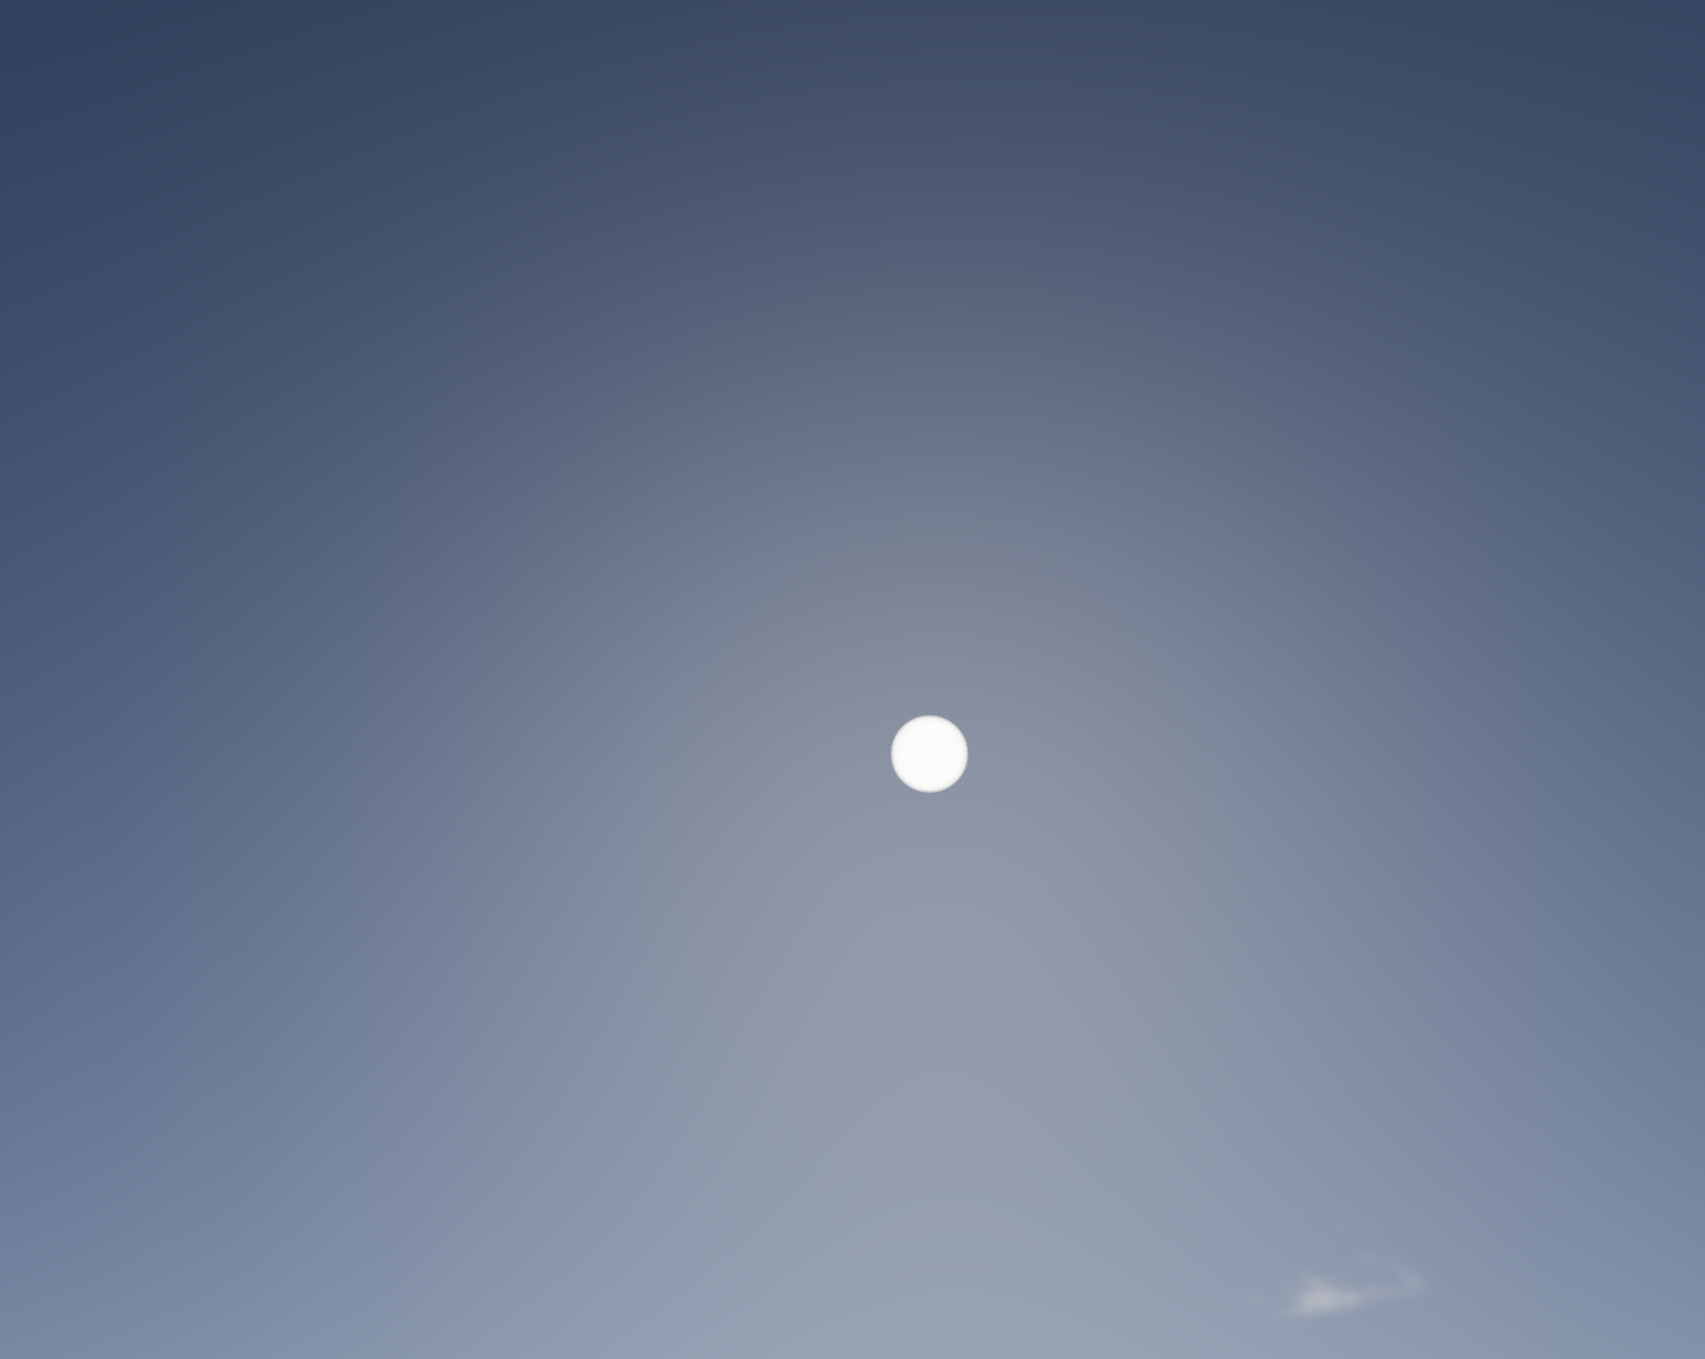
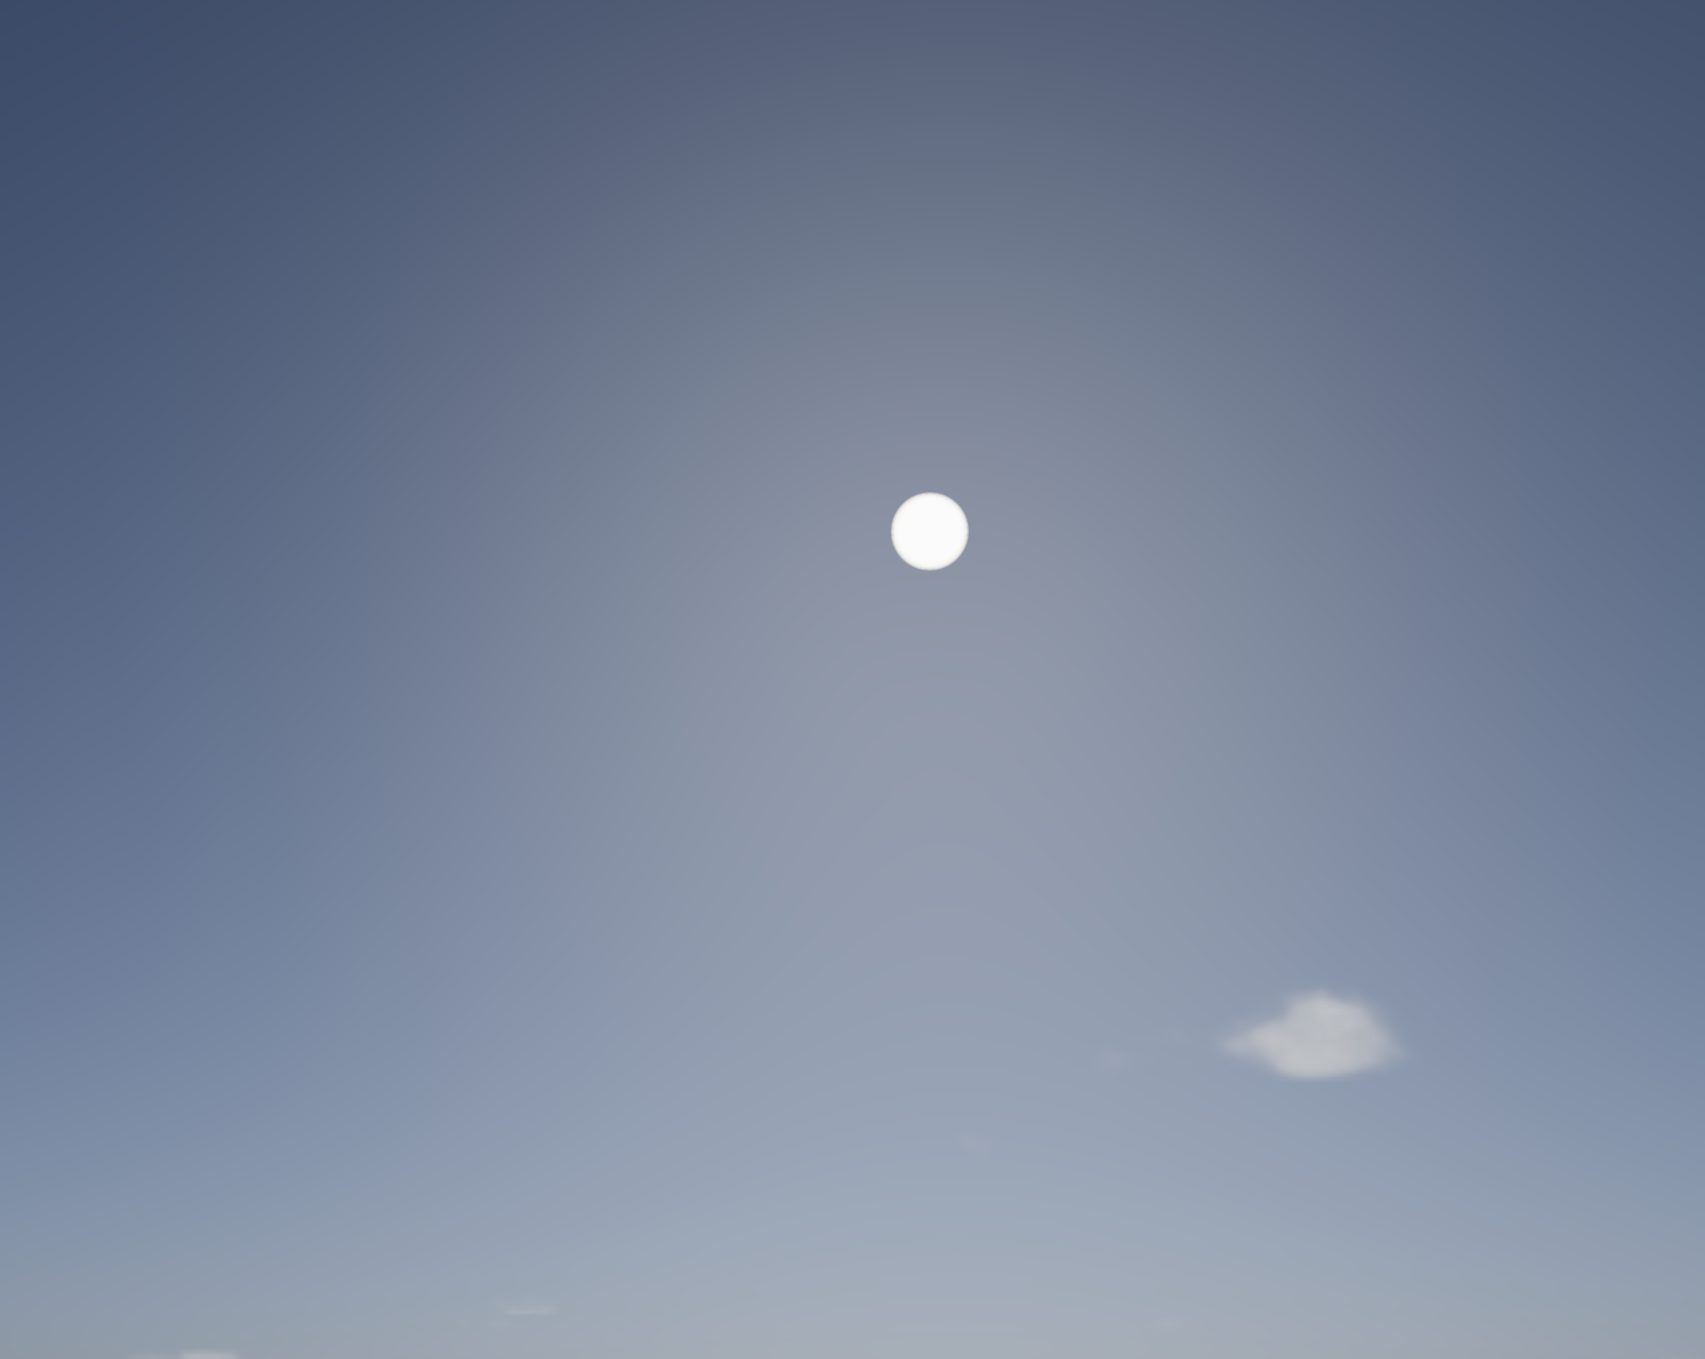
Record final camera range and integrated validation

diff --git a/assets/reviews/port-glare/README.md b/assets/reviews/port-glare/README.md
@@ -23,6 +23,6 @@ Validation: `bun test` passed all 101 tests; `bun run build` passed asset checks
 
 The follow-up camera change allows continued upward input to reveal the sun disk. Port and inspection keep the previous minimum orbit elevation (0.08 rad) for camera position, then tilt the viewing direction upward. Upward tilt is limited to 30° in every mode, reduced from the initial 1.35 rad (77°) after review. Every mode enforces a 12 m camera floor above sea level; port also retains 12 m clearance above terrain. Both the intended orbit position and the smoothed camera position are constrained, so interpolation and sinking cannot pull the camera below the floor.
 
-The [port sun](camera-port-sun.png) and [sailing sun](camera-sea-sun.png) are unedited 1705 × 1359 canvas captures from the same diagnostic in WebGPU, High quality, Atlantic sea. The paused port camera uses azimuth -2.129301687433082 rad, elevation control -0.67 rad and distance 325 m, with camera y=40.972 m. The paused sailing camera faces the sun's azimuth and elevation directly, with camera y=121.6 m. The sun disk is visible in both; no sky or sunlight parameters changed for this follow-up.
+The [port sun](camera-port-sun.png) and [sailing sun](camera-sea-sun.png) are unedited 1705 × 1359 canvas captures from the same diagnostic in WebGPU, High quality, Atlantic sea, refreshed after integrating master at `45392d0`. The paused port camera uses azimuth -2.129301687433082 rad, elevation control -π/6 rad and distance 325 m, with camera y=40.972 m. The paused sailing camera faces the sun's azimuth with a 30° upward tilt and camera y=121.6 m. The sun disk is visible in both; no sky or sunlight parameters changed for this follow-up.
 
-Validation: all 111 tests and `bun run build` passed. The new input-driven camera tests failed before the change, then passed for sun visibility, returning to the normal orbit, mouse aiming, binocular aim preservation, and clearance through extreme input, zoom, narrow/wide aspect ratios and sinking across all six camera modes.
+Validation: all 132 tests and `bun run build` passed after integrating master. The input-driven camera tests cover sun visibility within the 30° limit, returning to the normal orbit, mouse aiming, binocular aim preservation, and clearance through extreme input, zoom, narrow/wide aspect ratios and sinking across all six camera modes. Both final WebGPU views reported no diagnostic errors.
